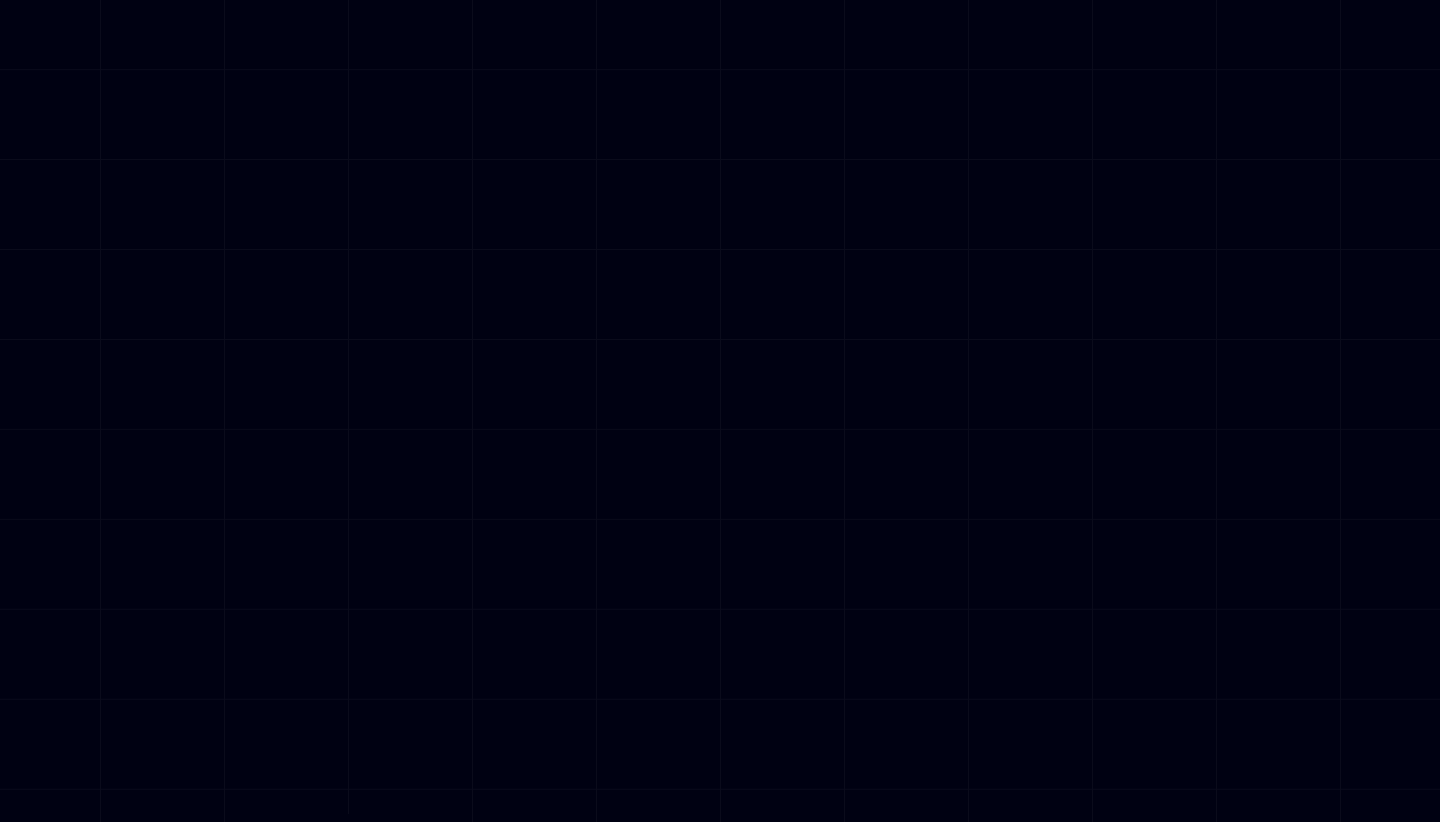
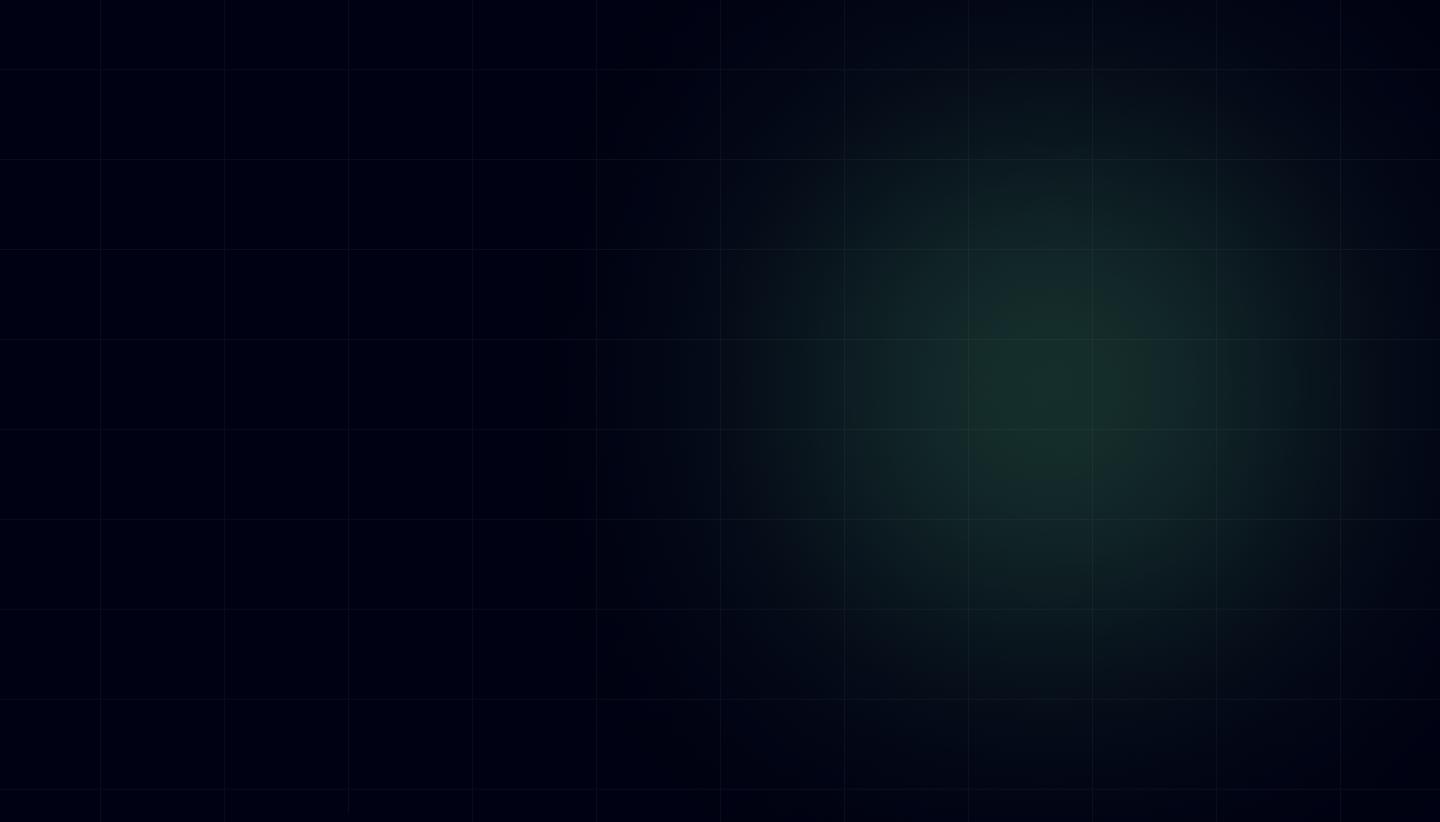
hot fixes landing page and carosel

Changed region(s): [[0.5625, 0.1825, 0.9062, 0.7603]]

diff --git a/src/app/Components/CommonComponents/carosel/carosel.component.html b/src/app/Components/CommonComponents/carosel/carosel.component.html
@@ -3,41 +3,47 @@
         <div class="carousel-inner">
             <div class="carousel-item active">
                 <img src="../../../../assets/Portfolio-images/caraouselImages/1.png" class="d-block w-100" alt="Zoey Template">
-                <div class="carousel-caption d-none d-md-block">
+                <div class="carousel-caption d-md-block">
                     <h5>Zoey Template</h5>
                   </div>
             </div>
             <div class="carousel-item">
                 <img src="../../../../assets/Portfolio-images/caraouselImages/2.png" class="d-block w-100" alt="Jihaan Clothing">
-                <div class="carousel-caption d-none d-md-block">
-                    <h5>Jihaan Clothing</h5>
-                  </div>
+                <div class="carousel-caption d-md-block">
+                  <h5>Jihaan Clothing</h5>
+                </div>
             </div>
             <div class="carousel-item">
                 <img src="../../../../assets/Portfolio-images/caraouselImages/3.png" class="d-block w-100" alt="Palm Villas">
-                <div class="carousel-caption d-none d-md-block">
+                <div class="carousel-caption d-md-block">
                     <h5>Palm Villas</h5>
                   </div>
             </div>
             <div class="carousel-item">
                 <img src="../../../../assets/Portfolio-images/caraouselImages/6.png" class="d-block w-100" alt="Enmass Energy">
-                <div class="carousel-caption d-none d-md-block">
+                <div class="carousel-caption d-md-block">
                     <h5>Enmass Energy</h5>
                   </div>
             </div>
             <div class="carousel-item">
                 <img src="../../../../assets/Portfolio-images/caraouselImages/5.png" class="d-block w-100" alt="Mvintage">
-                <div class="carousel-caption d-none d-md-block">
+                <div class="carousel-caption d-md-block">
                     <h5>Mvintage</h5>
                   </div>
             </div>
+            <div class="carousel-item">
+              <img src="../../../../assets/Portfolio-images/caraouselImages/4.png" class="d-block w-100" alt="ERP">
+              <div class="carousel-caption d-md-block">
+                  <h5>ERP</h5>
+                </div>
+          </div>
         </div>
         <button class="carousel-control-prev" type="button" data-bs-target="#carouselExampleAutoplaying" data-bs-slide="prev">
-          <span class="carousel-control-prev-icon" aria-hidden="true"></span>
+          <span class="fa fa-angle-double-left icon" aria-hidden="true"></span>
           <span class="visually-hidden">Previous</span>
         </button>
         <button class="carousel-control-next" type="button" data-bs-target="#carouselExampleAutoplaying" data-bs-slide="next">
-          <span class="carousel-control-next-icon" aria-hidden="true"></span>
+          <span class="fa fa-angle-double-right icon" aria-hidden="true"></span>
           <span class="visually-hidden">Next</span>
         </button>
       </div>

diff --git a/src/app/Components/CommonComponents/carosel/carosel.component.css b/src/app/Components/CommonComponents/carosel/carosel.component.css
@@ -10,44 +10,56 @@
     margin: 0 auto;
 }
 
-.carousel-control-prev-icon,
-.carousel-control-next-icon {
-    height: 50px;
-    width: 50px;
+.icon {
+    height: 40px;
+    width: 40px;
     background-color: rgba(0, 0, 0, 0.5);
     border-radius: 50%;
 }
 
-.carousel-control-prev-icon:before,
-.carousel-control-next-icon:before {
+.icon:before {
     content: '';
     display: inline-block;
     border-top: 10px solid transparent;
     border-bottom: 10px solid transparent;
-    border-left: 10px solid white;
+    border-left: 10px solid var(--text-color);
     margin-top: -10px;
     margin-left: -3px;
 }
 
-.carousel-control-next-icon:before {
+.icon:before {
     border-left: none;
-    border-right: 10px solid white;
+    border-right: 10px solid var(--text-color);
     margin-left: -7px;
 }
 
-.carousel-indicators button {
-    width: 10px;
-    height: 10px;
-    border-radius: 50%;
-    background-color: rgba(255, 255, 255, 0.5);
-    border: none;
-    margin: 0 5px;
-}
 
-.carousel-indicators .active {
+.d-md-block h5{
     background-color: var(--background-color);
+    opacity: 0.9;
+    padding: 10px;
+    font-weight: 800;
+    color: var(--text-color);
+}
+@media only screen and (min-width:200px) and (max-width:400px) {
+    .carousel-item img {
+        height: 264px;
+    }
+    .d-md-block h5{
+        padding: 1px;
+        font-weight: 400;
+        color: var(--text-color);
+    }
 }
 
-.d-md-block .h5{
-    color: black;    
+
+@media only screen and (min-width:401px) and (max-width: 576px) {
+    .carousel-item img {
+        height: 264px;
+    }
+    .d-md-block h5{
+        padding: 1px;
+        font-weight: 400;
+        color: var(--text-color);
+    }
 }

diff --git a/src/app/Components/CommonComponents/Landing-Page/landing-page/landing-page.component.css b/src/app/Components/CommonComponents/Landing-Page/landing-page/landing-page.component.css
@@ -1,9 +1,13 @@
 .container-fluid {
-    margin-top: 10%;
-    margin-bottom: 70px;
-    background-image: url(../../../../../assets/About-us-images/landingImageaboutUs.png);
+    width: 100%;
+    min-height: 95vh !important;
+    display: flex;
+    justify-content: center;
+    align-items: center;
+    background-image: url(../../../../../assets/Common/gridBackground.png);
     background-size: cover;
     background-position: center;
+    overflow: hidden;
 }
 
 .col-5 {

diff --git a/src/app/Components/Main-Dashboard/header/header.component.css b/src/app/Components/Main-Dashboard/header/header.component.css
@@ -1,9 +1,9 @@
 .container-fluid.main {
     width: 100%;
     height: auto;
-    /* background-image: url(../../../../assets/About-us-images/landingImageaboutUs.png);
+    /* background-image: url(../../../../assets/Common/gridBackground1.png);
     background-size: cover;
-    background-position: center; */
+    background-position:bottom; */
     overflow: hidden;
     background-color: var(--background-color);
 }

diff --git a/src/app/Components/CommonComponents/Landing-Page/about-home-page/about-home-page.component.css b/src/app/Components/CommonComponents/Landing-Page/about-home-page/about-home-page.component.css
@@ -1,6 +1,13 @@
 .container-fluid {
-    margin-top: 10%;
-    margin-bottom: 70px;
+    width: 100%;
+    min-height: 95vh !important;
+    display: flex;
+    justify-content: center;
+    align-items: center;
+    background-image: url(../../../../../assets/Common/gridBackground.png);
+    background-size: cover;
+    background-position: center;
+    overflow: hidden;
 }
 
 .col-5 {

diff --git a/src/app/Components/CommonComponents/Landing-Page/contact-us-home-page/contact-us-home-page.component.css b/src/app/Components/CommonComponents/Landing-Page/contact-us-home-page/contact-us-home-page.component.css
@@ -1,6 +1,13 @@
 .container-fluid {
-    margin-top: 10%;
-    margin-bottom: 70px;
+    width: 100%;
+    min-height: 95vh !important;
+    display: flex;
+    justify-content: center;
+    align-items: center;
+    background-image: url(../../../../../assets/Common/gridBackground.png);
+    background-size: cover;
+    background-position: center;
+    overflow: hidden;
 }
 
 .col-5 {

diff --git a/src/app/Components/CommonComponents/Landing-Page/our-services-home-page/our-services-home-page.component.css b/src/app/Components/CommonComponents/Landing-Page/our-services-home-page/our-services-home-page.component.css
@@ -1,6 +1,13 @@
 .container-fluid {
-    margin-top: 10%;
-    margin-bottom: 70px;
+    width: 100%;
+    min-height: 95vh !important;
+    display: flex;
+    justify-content: center;
+    align-items: center;
+    background-image: url(../../../../../assets/Common/gridBackground.png);
+    background-size: cover;
+    background-position: center;
+    overflow: hidden;
 }
 
 .col-5 {

diff --git a/src/app/Components/CommonComponents/Landing-Page/portfolio-home-page/portfolio-home-page.component.css b/src/app/Components/CommonComponents/Landing-Page/portfolio-home-page/portfolio-home-page.component.css
@@ -1,6 +1,13 @@
 .container-fluid {
-    margin-top: 10%;
-    margin-bottom: 70px;
+    width: 100%;
+    min-height: 95vh !important;
+    display: flex;
+    justify-content: center;
+    align-items: center;
+    background-image: url(../../../../../assets/Common/gridBackground.png);
+    background-size: cover;
+    background-position: center;
+    overflow: hidden;
 }
 
 .col-5 {

diff --git a/src/app/Components/Pages/portfolio/portfolio.component.html b/src/app/Components/Pages/portfolio/portfolio.component.html
@@ -1,5 +1,5 @@
+<app-portfolio-home-page></app-portfolio-home-page>
 <app-brands></app-brands>
-
 <div class="container-fluid">
     <div class="row mt-4">
         <div class="col-md-12">
@@ -13,6 +13,5 @@
         </div>
     </div>
 </div>
-
 <app-carosel></app-carosel>
 <app-news-email></app-news-email>

diff --git a/src/app/Components/Pages/our-services/our-services.component.html b/src/app/Components/Pages/our-services/our-services.component.html
@@ -1,3 +1,4 @@
+<app-our-services-home-page></app-our-services-home-page>
 <app-brands></app-brands>
 <app-service-for-clients></app-service-for-clients>
 <app-news-email></app-news-email>

diff --git a/src/app/Components/Pages/contact/contact.component.html b/src/app/Components/Pages/contact/contact.component.html
@@ -1,3 +1,4 @@
+<app-contact-us-home-page></app-contact-us-home-page>
 <app-brands></app-brands>
 <app-contact-us-form-page></app-contact-us-form-page>
 <app-news-email></app-news-email>

diff --git a/src/app/Components/Pages/about/about.component.html b/src/app/Components/Pages/about/about.component.html
@@ -1,3 +1,4 @@
+<app-about-home-page></app-about-home-page>
 <app-brands></app-brands>
 <app-about-page-info></app-about-page-info>
 <router-outlet></router-outlet>
